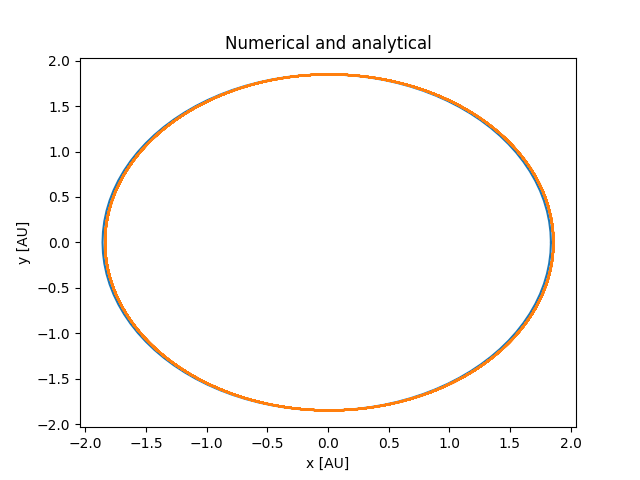
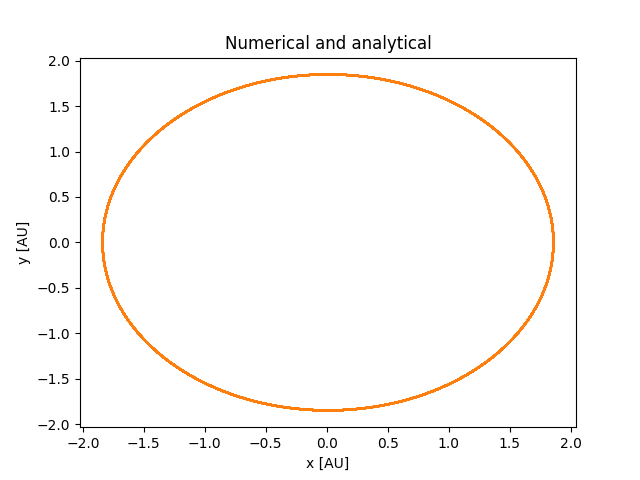
la til alt

diff --git a/task_1.py b/task_1.py
@@ -12,18 +12,17 @@ class Planets_analytical:
         self.a = system.semi_major_axes[planet_number]
         self.p = self.a * (1-self.e**2)
         self.init_orb_angle = system.initial_orbital_angles[planet_number]
-        self.init_angle = system.aphelion_angles[planet_number]
+        self.init_angle = system.aphelion_angles[planet_number] - np.pi
         self.rot_period = system.rotational_periods[planet_number]
         self.init_position = system.initial_positions[:,planet_number]
-        self.f = np.linspace(0,2*np.pi, 101)
+        self.f = np.linspace(0,2*np.pi, 101) - self.init_angle
         self.r = self.p / (1 + self.e * np.cos(self.f))
 
     def plot(self, number):
         theta = np.linspace(0,2*np.pi,101)
-        x = self.r * np.cos(self.f)
-        y = self.r * np.sin(self.f)
+        x = self.r * np.cos(theta)
+        y = self.r * np.sin(theta)
         plt.plot(x, y)
-        plt.title('Analytic orbits')
         plt.xlabel('x [AU]')
         plt.ylabel('y [AU]')
 
@@ -31,6 +30,6 @@ if __name__=='__main__':
     seed = utils.get_seed('antonabr')
     system = SolarSystem(seed)
     for i in range(8):
-        planet = Planets(system, i)
+        planet = Planets_analytical(system, i)
         planet.plot(i+1)
     plt.show()

diff --git a/Part_2.py b/Part_2.py
@@ -20,6 +20,7 @@ plt.figure()
 for i in range(8):
     planet = Planets_analytical(system, i)
     planet.plot(i+1)
+plt.title('Analytic orbits')
 plt.savefig('analytical-orbits.jpg')
 
 # task 2
@@ -28,7 +29,18 @@ for i in range(8):
     planet = Planets_numerical(system, i)
     planet.leapfrog()
     planet.plot(i+1)
+plt.title('Numerical orbits')
 plt.savefig('numerical-orbits.png')
+
+plt.figure()
+for i in range(8):
+    planet = Planets_analytical(system, i)
+    planet.plot(i+1)
+    planet = Planets_numerical(system, i)
+    planet.leapfrog()
+    planet.plot(i+1)
+plt.title('Numerical and analytical orbits')
+plt.savefig('numerical-and-analytical-solar-system.png')
 
 plt.figure()
 planet_analytical = Planets_analytical(system, 0)

diff --git a/task_2.py b/task_2.py
@@ -22,7 +22,7 @@ class Planets_numerical:
         self.star_mass_system = system.star_mass
         self.a_home_planet = system.semi_major_axes[0]
         self.P = np.sqrt(4*np.pi**2 / (self.G*(self.planet_mass + self.star_mass_system)) * self.a_home_planet**3)
-        self.total_time = int(np.ceil(self.P * 20))
+        self.total_time = int(np.ceil(self.P * 20)) * 2
         self.time_steps = int(np.ceil(self.total_time * 10000))
         self.t = np.linspace(0, self.total_time, self.time_steps)
 
@@ -51,7 +51,6 @@ class Planets_numerical:
 
     def plot(self, number):
         plt.plot(self.r[:,0],self.r[:,1])
-        plt.title('Numerical orbits')
         plt.xlabel('x [AU]')
         plt.ylabel('v [AU]')
 
